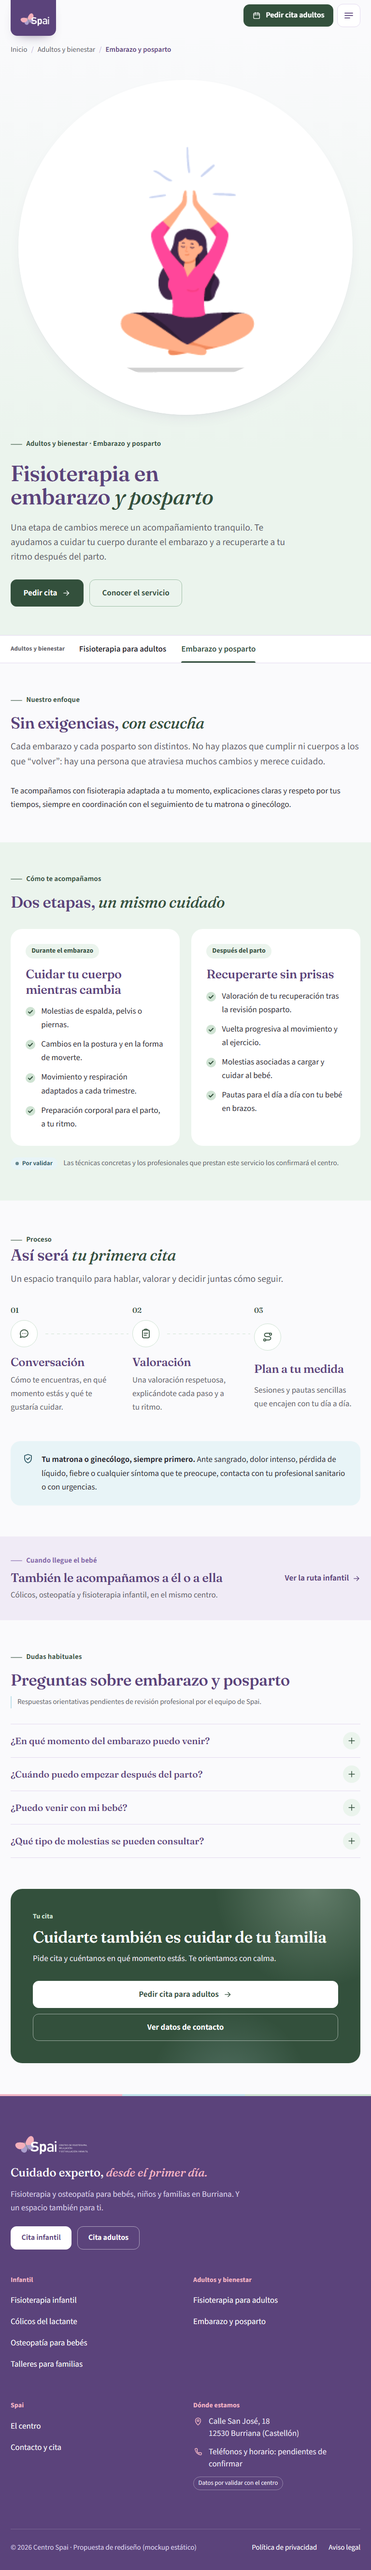
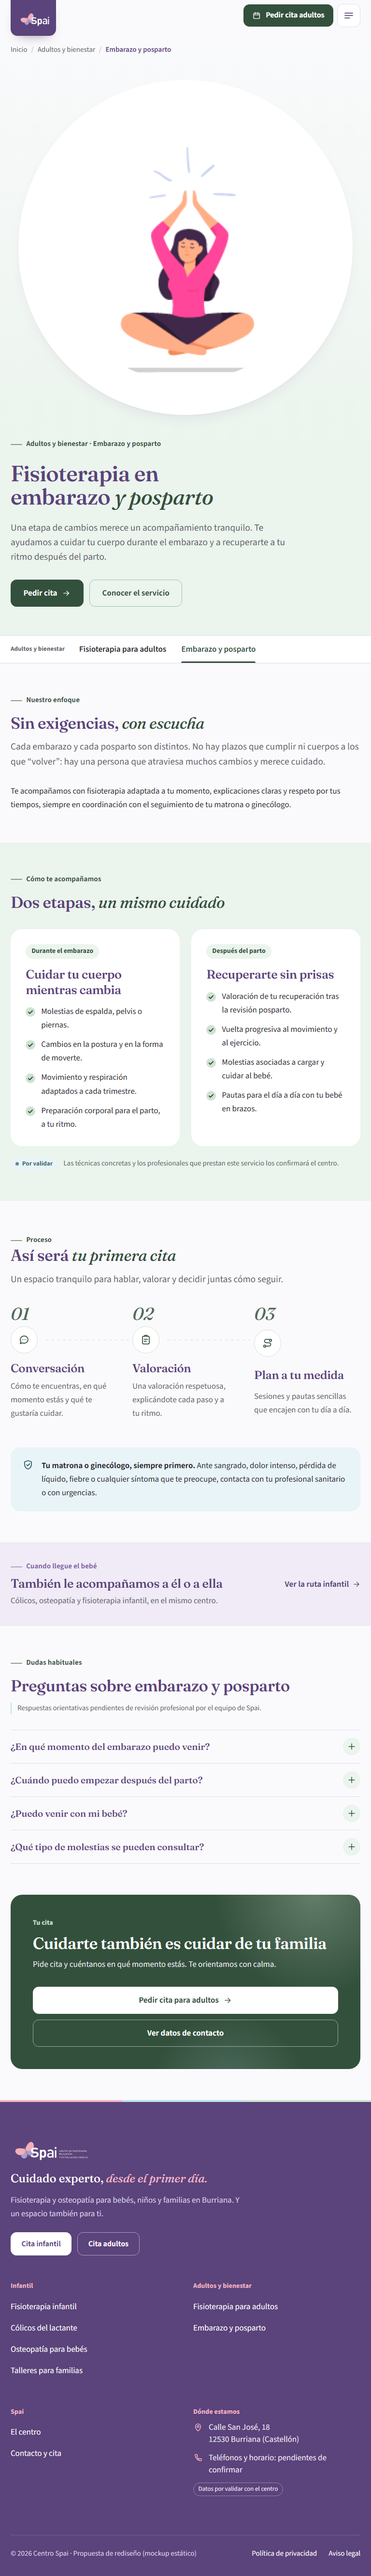
fix: final polish after critique round 4 (mobile trust copy, adult medallions, stacked selector, editorial timeline numbers)

diff --git a/design/critiques/ronda-4.md b/design/critiques/ronda-4.md
@@ -1,0 +1,35 @@
+# Crítica independiente — Ronda 4 (última)
+
+**Total: 81 / 100 · No aprobado (umbral 85; responsive y originalidad en 7,5) · 0 bloqueantes**
+
+| Categoría | R1 | R2 | R3 | R4 |
+|---|---:|---:|---:|---:|
+| Jerarquía y tipografía | 8.0 | 8.0 | 8.0 | 8.0 |
+| Color y marca | 8.0 | 7.5 | 8.0 | 8.0 |
+| Layout, ritmo y responsive | 7.0 | 7.5 | 7.5 | 7.5 |
+| Originalidad | 6.5 | 7.0 | 7.5 | 7.5 |
+| Copy sanitario | 8.5 | 9.0 | 9.0 | 9.0 |
+| UX / conversión | 7.5 | 8.5 | 8.5 | 8.5 |
+| Accesibilidad | 8.0 | 8.0 | 8.0 | 8.0 |
+| Pulido e interacción | 6.5 | 7.0 | 7.5 | 8.0 |
+| Fidelidad a la dirección | 7.0 | 8.0 | 8.0 | 8.0 |
+| Credibilidad ante cliente | 6.5 | 7.5 | 8.0 | 8.5 |
+| **Total** | **73,5** | **78** | **80** | **81** |
+
+Resuelto respecto a la ronda 3: header sólido, ritmo vertical, verbo del CTA y medallones sin mancha gris ni triple marco.
+
+## Ajustes finales aplicados tras la ronda 4 (sin nueva ronda de crítica)
+
+| Problema | Ajuste |
+|---|---|
+| "Por qué Spai" a 390 queda como etiquetas sueltas | Una columna con icono, título y texto. |
+| Ilustraciones de adultos pequeñas dentro del medallón | Recorte `cover` y medallón más compacto. |
+| Selector de rutas estrecho a 768 | Tarjetas apiladas hasta 56 rem. |
+| Foto de adultos demasiado alta a 768 | Proporción 16:10 por debajo de 56 rem. |
+| Mitad inferior de la home con patrón de plantilla | Numeración grande en Fraunces cursiva en el timeline. |
+
+## Por qué no se alcanza 85 (límites del alcance)
+
+- Las imágenes obligatorias del cliente (bebé de stock, ilustraciones planas) limitan la originalidad; con fotografía propia del centro y del equipo, la nota subiría.
+- La home móvil sigue siendo larga (unos 7.800 px) porque la arquitectura pedida incluye ocho bloques; habría que priorizar contenido con el cliente.
+- Perfiles, credenciales y datos de contacto pendientes restan credibilidad hasta validarlos.

diff --git a/ESTADO.md b/ESTADO.md
@@ -62,6 +62,10 @@ No copiadas por no usarse: `logo-centro-spai-movil.png`, `bienestar-y-relax-movi
 
 `npm run build` → 12 páginas generadas sin errores ni avisos. Verificación con script: todos los enlaces y assets bajo `/doblessa-centro-spai/`, anclas existentes, 1 H1 por página, sin `href="#"`. Capturas en 360/390/768/1024/1280/1440 sin errores de consola, sin 4xx y sin overflow horizontal.
 
+## Crítica de diseño independiente
+
+Cuatro rondas con el agente `design-critic` (informes en `design/critiques/`): 73,5 → 78 → 80 → **81/100**, sin bloqueantes. No se alcanza el umbral interno de 85 (responsive y originalidad en 7,5), sobre todo por límites del alcance: imágenes de stock e ilustraciones obligatorias, longitud de la home móvil por la arquitectura pedida y datos o perfiles pendientes. Tras la ronda 4 se aplicaron ajustes menores sin nueva ronda de crítica.
+
 ## Último cambio
 
 Implementación completa del rediseño y correcciones de la crítica independiente. Ver `git log`.
